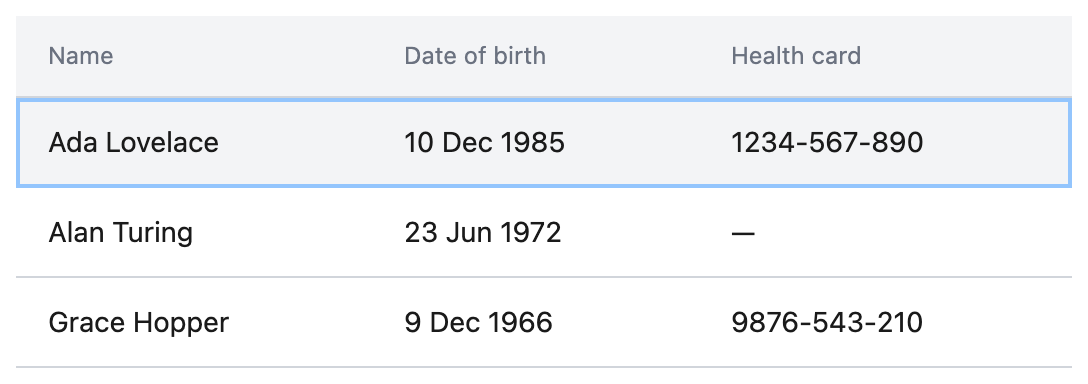
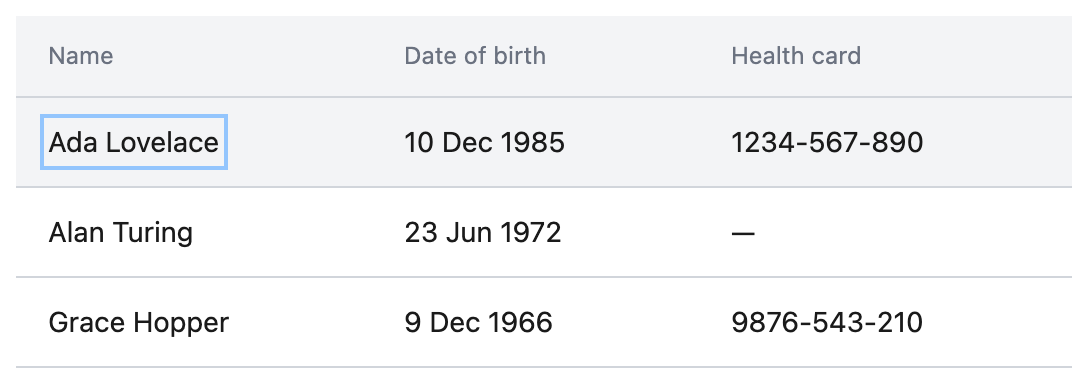
ui: clickable Table rows announce themselves with a button (T-7.10)
A clickable row was a focusable <tr> with key handlers: keyboard-
operable, but a screen reader never said the row did anything. The
first cell of a clickable row is now a real <button> named by its
content, so it is announced as actionable and Tab, Enter and Space are
native. The row keeps its native role (the table stays navigable) and
stays clickable as a whole; the button's click bubbles to the row, so
every activation calls onRowClick exactly once. No prop changed: the
button is always the first column, and the README says to put the column
that names the record first. D-15 is amended; the row-focus screenshot
is re-captured.

Verified: Table 18 tests (4 new: buttons named by the first cell, none
when not clickable, one call per click on the button or elsewhere, one
per Enter and per Space); ui 171 and app 50 pass. Mutations: no button
fails 5 tests; a handler on the button as well as the row (double
firing) fails 3.

Claude-Session: https://claude.ai/code/session_01CG19uXLFTaeBhQAszH7Hef

Changed region(s): [[0.0, 0.25, 1.0, 0.5]]

diff --git a/packages/ui/src/components/Table.tsx b/packages/ui/src/components/Table.tsx
@@ -53,25 +53,23 @@ export function Table({
               // Rows carry no guaranteed identity, so position is the key.
               key={rowIndex}
               className={isClickable ? styles.clickableRow : undefined}
-              // A clickable row has to be reachable and activatable from the
-              // keyboard, not just the mouse. It keeps its native row role:
-              // role="button" would hide its cells from table navigation.
-              tabIndex={isClickable ? 0 : undefined}
+              // The whole row is clickable with a mouse. A click on the first
+              // cell's button bubbles here too, so every activation, by mouse,
+              // Enter or Space, reaches onRowClick exactly once.
               onClick={isClickable ? () => onRowClick?.(row) : undefined}
-              onKeyDown={
-                isClickable
-                  ? (event) => {
-                      if (event.key === 'Enter' || event.key === ' ') {
-                        event.preventDefault();
-                        onRowClick?.(row);
-                      }
-                    }
-                  : undefined
-              }
             >
-              {columns.map((column) => (
+              {columns.map((column, columnIndex) => (
                 <td key={column.key} className={styles.cell}>
-                  {row[column.key]}
+                  {isClickable && columnIndex === 0 ? (
+                    // A real button, named by the cell, so the row is reachable
+                    // with Tab and announced as actionable, while the row keeps
+                    // its native role and the table stays navigable (D-15).
+                    <button type="button" className={styles.rowButton}>
+                      {row[column.key]}
+                    </button>
+                  ) : (
+                    row[column.key]
+                  )}
                 </td>
               ))}
             </tr>

diff --git a/packages/ui/src/components/Table.test.tsx b/packages/ui/src/components/Table.test.tsx
@@ -113,6 +113,45 @@ describe('Table', () => {
     expect(onRowClick).not.toHaveBeenCalled();
   });
 
+  it('announces a clickable row by a button named after its first cell', () => {
+    render(<Table columns={columns} rows={rows} onRowClick={() => {}} />);
+
+    expect(screen.getAllByRole('button').map((button) => button.textContent)).toEqual([
+      'Ada Lovelace',
+      'Alan Turing',
+    ]);
+  });
+
+  it('has no buttons when rows are not clickable', () => {
+    render(<Table columns={columns} rows={rows} />);
+
+    expect(screen.queryByRole('button')).not.toBeInTheDocument();
+  });
+
+  it('calls onRowClick once for a click on the button and once for a click elsewhere in the row', async () => {
+    const onRowClick = vi.fn();
+    render(<Table columns={columns} rows={rows} onRowClick={onRowClick} />);
+
+    await userEvent.click(screen.getByRole('button', { name: 'Ada Lovelace' }));
+    expect(onRowClick).toHaveBeenCalledTimes(1);
+
+    await userEvent.click(screen.getByText('555-0102'));
+    expect(onRowClick).toHaveBeenCalledTimes(2);
+    expect(onRowClick).toHaveBeenLastCalledWith(rows[1]);
+  });
+
+  it('calls onRowClick once for Enter and once for Space on the button', async () => {
+    const onRowClick = vi.fn();
+    render(<Table columns={columns} rows={rows} onRowClick={onRowClick} />);
+
+    await userEvent.tab();
+    await userEvent.keyboard('{Enter}');
+    expect(onRowClick).toHaveBeenCalledTimes(1);
+
+    await userEvent.keyboard(' ');
+    expect(onRowClick).toHaveBeenCalledTimes(2);
+  });
+
   it('ignores keys other than Enter and Space on a clickable row', async () => {
     const onRowClick = vi.fn();
     render(<Table columns={columns} rows={rows} onRowClick={onRowClick} />);

diff --git a/packages/ui/src/components/Table.module.css b/packages/ui/src/components/Table.module.css
@@ -29,13 +29,26 @@
 }
 
 .clickableRow:hover,
-.clickableRow:focus-visible {
+.clickableRow:focus-within {
   background: var(--ui-color-surface-subtle);
 }
 
-.clickableRow:focus-visible {
+/* The first cell's button reads as the cell's text: the row, not the button,
+   carries the hover and focus look. */
+.rowButton {
+  margin: 0;
+  padding: 0;
+  border: 0;
+  background: none;
+  color: inherit;
+  font: inherit;
+  text-align: inherit;
+  cursor: pointer;
+}
+
+.rowButton:focus-visible {
   outline: var(--ui-focus-ring-width) solid var(--ui-color-focus);
-  outline-offset: calc(var(--ui-focus-ring-offset) * -1);
+  outline-offset: var(--ui-focus-ring-offset);
 }
 
 .empty {

diff --git a/packages/ui/README.md b/packages/ui/README.md
@@ -682,11 +682,13 @@ Types: `TableProps`, `TableColumn`, `TableRow`.
 
 #### Behaviour
 
-- With `onRowClick`, each row is a Tab stop
-  ([`src/components/Table.tsx:59`](src/components/Table.tsx#L59 "tabIndex={isClickable ? 0 : undefined}")) and
-  activates on Enter or Space
-  ([`src/components/Table.tsx:64`](src/components/Table.tsx#L64 "if (event.key === 'Enter' || event.key === ' ') {")), keeping
-  table semantics. For long lists, filter or paginate first.
+- With `onRowClick`, the first cell of each row becomes a button named by its
+  content ([`src/components/Table.tsx:67`](src/components/Table.tsx#L67 "className={styles.rowButton}>")), so
+  screen readers announce the row as actionable, and Tab, Enter and Space
+  work. The whole row is also clickable
+  ([`src/components/Table.tsx:59`](src/components/Table.tsx#L59 "onClick={isClickable ? () => onRowClick?.(row) : undefined}")); each
+  activation calls `onRowClick` once. Put the column that names the record
+  first. Each row is a Tab stop, so for long lists filter or paginate first.
 - Keys no column names (like `id` above) stay on the row, unshown, and reach
   `onRowClick`. Values are `ReactNode`: narrow with
   `typeof row.id === 'string'`.
@@ -699,7 +701,7 @@ Types: `TableProps`, `TableColumn`, `TableRow`.
 | --- | --- | --- | --- | --- |
 | Default | rows, no `onRowClick` | Grey header, hairline between rows; not focusable | Components / Table / Default | <img src="docs/states/table-default.png" alt="Table with three rows" width="280"> |
 | Row hover | `onRowClick`, pointer over a row | Light-grey row, hand cursor | Components / Table / Clickable Rows (hover) | <img src="docs/states/table-row-hover.png" alt="Table with a hovered row" width="280"> |
-| Row focus | `onRowClick`, Tab to a row | Light-grey row, ring inside it | Components / Table / Clickable Rows (tab) | <img src="docs/states/table-row-focus.png" alt="Table with a focused row" width="280"> |
+| Row focus | `onRowClick`, Tab to a row | Light-grey row, ring around the first cell's text | Components / Table / Clickable Rows (tab) | <img src="docs/states/table-row-focus.png" alt="Table with a focused row" width="280"> |
 | Empty | `rows={[]}` | `emptyMessage`, centred, grey; not clickable | Components / Table / Empty | <img src="docs/states/table-empty.png" alt="Empty table with message" width="280"> |
 
 #### Source

diff --git a/docs/DECISIONS.md b/docs/DECISIONS.md
@@ -234,6 +234,14 @@ which cell holds it).
 **What would change it.** A requirement for screen readers to announce the
 row as actionable, which would favour the in-cell control.
 
+**Amended 2026-09-29 (T-7.10).** That requirement arrived: a review against
+the brief found the focusable `<tr>` was never announced as clickable. The
+first cell of a clickable row is now a real `<button>` named by its content,
+and the row keeps its native role and stays clickable as a whole. The API
+objection above is met by convention rather than a prop: the button is always
+in the first column, and the README tells consumers to put the column that
+names the record first.
+
 ---
 
 ## D-16 — Birth dates display as "2 Mar 1984"

diff --git a/docs/TASKS.md b/docs/TASKS.md
@@ -483,7 +483,7 @@ accepted these fixes (grilling round 1, Q1–Q11).
 
 ### T-7.10 Clickable rows announce themselves
 - **Depends on:** T-1.5
-- **Status:** Not started
+- **Status:** Done
 - **Done when:** in a clickable Table, the first cell of each row is a real
   `<button>` named by that cell's content, so a screen reader announces the row
   as actionable; the whole row stays clickable; `onRowClick` fires once per
